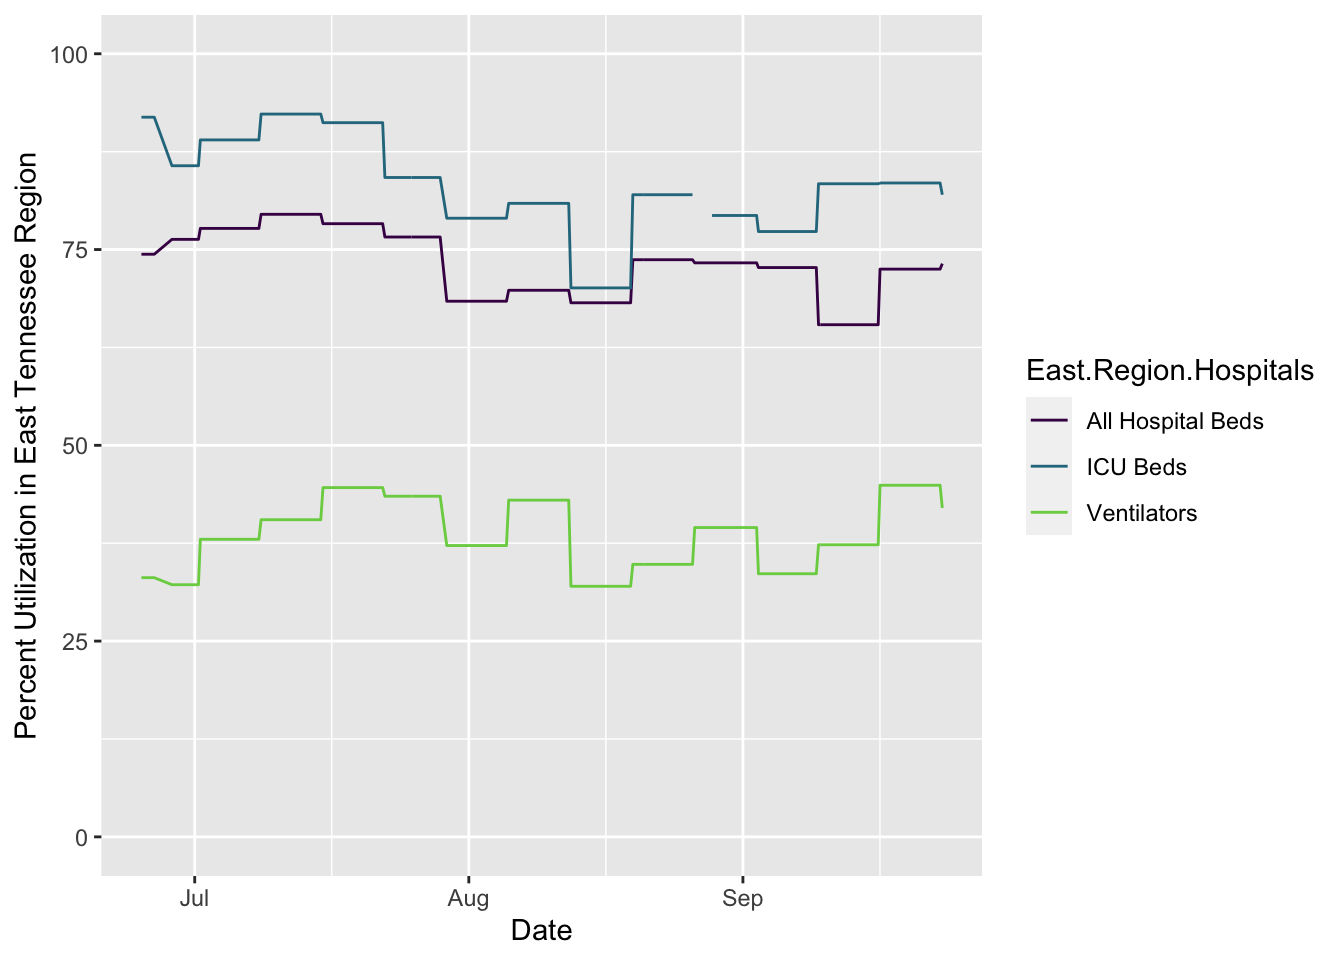
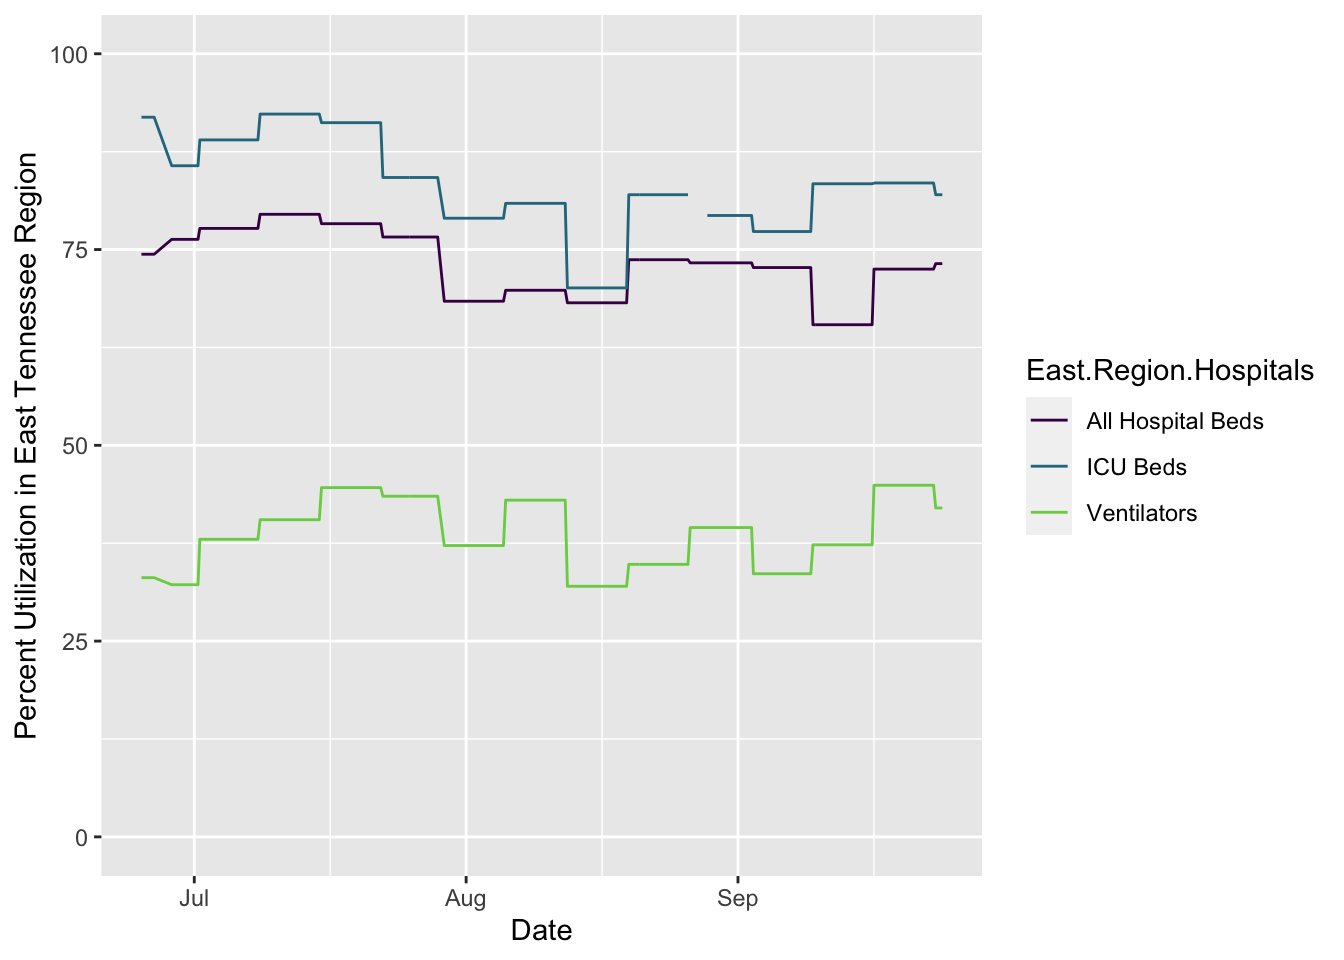
updating site

diff --git a/docs/covid.html b/docs/covid.html
@@ -424,7 +424,7 @@ $(document).ready(function () {
 <li>Info about cases at <a href="#ut">U. of Tennessee, Knoxville</a> (using public information only)</li>
 <li><a href="#webcams">Webcams</a> showing activity at local sites, though not quite at the resolution to point to mask usage or not</li>
 </ul>
-<p>The following plots are created in R using data from <a href="https://covid19datahub.io" class="uri">https://covid19datahub.io</a> (Guidotti, E., Ardia, D., (2020), “COVID-19 Data Hub”, Working paper, doi: 10.13140/RG.2.2.11649.81763), as well as information from Google and the <a href="https://www.tn.gov/health/cedep/ncov/data/downloadable-datasets.html">state of Tennessee dataset page</a> and plotting and analysis using the <code>forecast</code>, <code>ggplot2</code>, <code>reshape2</code>, and <code>dplyr</code> packages. Plots created on 2020-09-23 16:54:34. I use <code>ggplot2</code>’s <code>geom_smooth()</code> function for the smoothed regression plots with its default formula, which uses loess smoothing for this many points. This is not based on a model of disease spread or anything similarly sophisticated, just drawing a smooth curve to summarize noisy points (see <a href="https://www.itl.nist.gov/div898/handbook/pmd/section1/pmd144.htm">here</a> for more details).</p>
+<p>The following plots are created in R using data from <a href="https://covid19datahub.io" class="uri">https://covid19datahub.io</a> (Guidotti, E., Ardia, D., (2020), “COVID-19 Data Hub”, Working paper, doi: 10.13140/RG.2.2.11649.81763), as well as information from Google and the <a href="https://www.tn.gov/health/cedep/ncov/data/downloadable-datasets.html">state of Tennessee dataset page</a> and plotting and analysis using the <code>forecast</code>, <code>ggplot2</code>, <code>reshape2</code>, and <code>dplyr</code> packages. Plots created on 2020-09-24 11:10:03. I use <code>ggplot2</code>’s <code>geom_smooth()</code> function for the smoothed regression plots with its default formula, which uses loess smoothing for this many points. This is not based on a model of disease spread or anything similarly sophisticated, just drawing a smooth curve to summarize noisy points (see <a href="https://www.itl.nist.gov/div898/handbook/pmd/section1/pmd144.htm">here</a> for more details).</p>
 <h2 id="cases">
 Cases
 </h2>
@@ -461,7 +461,7 @@ Schooling
 <h2 id="hospitalization">
 Hospitalization
 </h2>
-<p>As of the last time the data were updated (likely 0 days ago), regional hospitals had 50 ICU beds available of 278 total, and 142 available ventilators out of 245 total. This is based on 19 acute care hospitals in the East TN region; based on the 14 counties these hospitals are in, these serve at least 1,235,720 people. When a line hits 100%, the local hospitals are theoretically full for that resource (for all patients, not just covid patients), though there is surge capacity on top of this. Note that these data are updated only weekly, so current conditions maybe be much better or worse than these plots show. Data on capacity from Knox County’s dashboard, data on hospitalizations and testing over time from the state data.</p>
+<p>As of the last time the data were updated (likely 1 days ago), regional hospitals had 50 ICU beds available of 278 total, and 142 available ventilators out of 245 total. This is based on 19 acute care hospitals in the East TN region; based on the 14 counties these hospitals are in, these serve at least 1,235,720 people. When a line hits 100%, the local hospitals are theoretically full for that resource (for all patients, not just covid patients), though there is surge capacity on top of this. Note that these data are updated only weekly, so current conditions maybe be much better or worse than these plots show. Data on capacity from Knox County’s dashboard, data on hospitalizations and testing over time from the state data.</p>
 <p><img src="covid_files/figure-html/hospitalcapacityplot-1.png" width="672" /></p>
 <p>Trends in hospitalization of covid patients over time. The vertical dotted line shows the last day with updated capacity information, when there were 50 ICU beds available (ignoring surge capacity) for people in the East Tennessee region.</p>
 <p><img src="covid_files/figure-html/plotsD-1.png" width="672" /></p>
